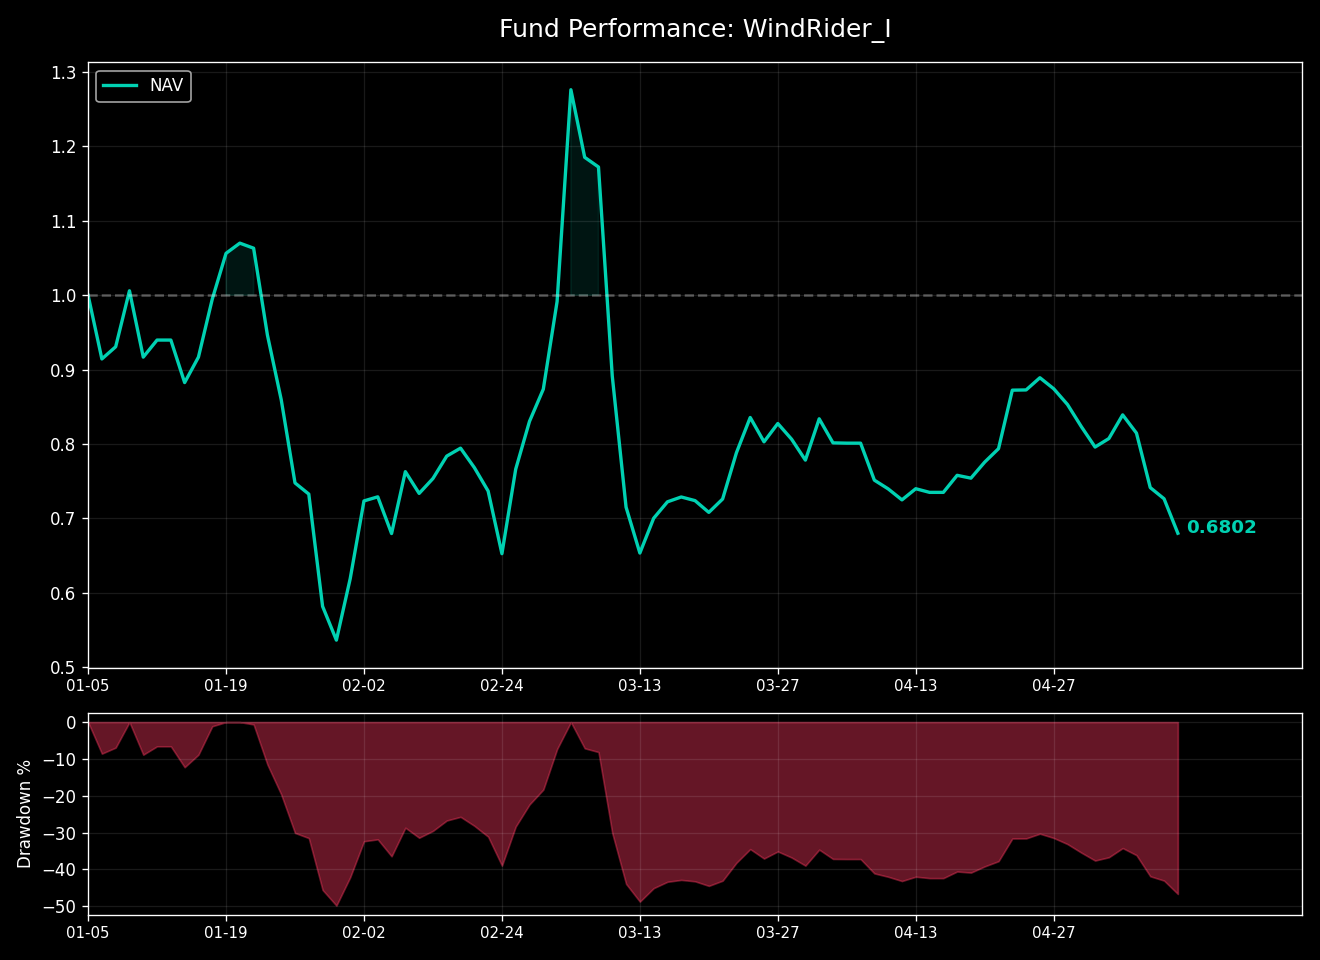
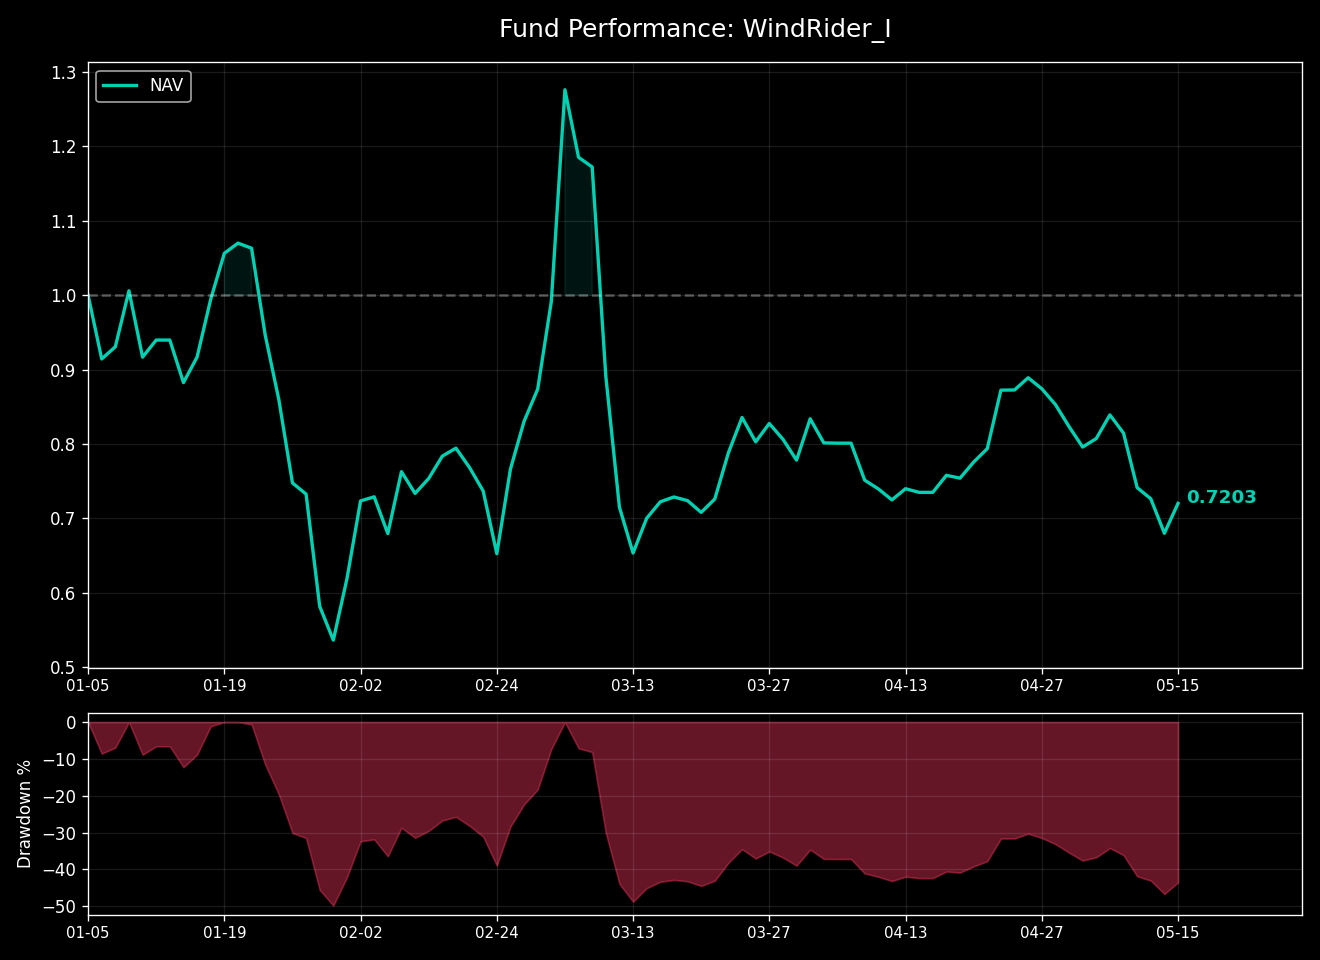
Updated Hugo site content

diff --git a/content/investment/windrider-1.md b/content/investment/windrider-1.md
@@ -1,8 +1,8 @@
 +++
 title = "风舵1号 (WindRider I)  /// 指数"
 summary = "商品期货分形摆动策略，实盘最新净值与核心风险指标。"
-date = 2026-05-14T15:15:03+08:00
-lastmod = 2026-05-14T15:15:03+08:00
+date = 2026-05-15T15:15:03+08:00
+lastmod = 2026-05-15T15:15:03+08:00
 draft = false
 description = "商品期货分形摆动策略实盘"
 +++
@@ -15,24 +15,24 @@ description = "商品期货分形摆动策略实盘"
 
 ### 风舵1号 (WindRider I) &nbsp;&nbsp;<span style="color: #E63946; font-weight: bold;">/</span><span style="color: #F1A73E; font-weight: bold;">/</span><span style="color: #000091; font-weight: bold;">/</span>&nbsp;&nbsp; 指数
 商品期货分形摆动策略实盘<br>
-净值简报 <small>(截至: 2026-05-14)</small>
+净值简报 <small>(截至: 2026-05-15)</small>
 
 |  |  |
 | :--- | :--- |
 | **指数代码：** | WDR1.CTA |
 | **起步日期：** | 2026-01-05 |
-| **最新净值：** | 0.6802 |
-| **今日涨跌：** | -6.37% |
+| **最新净值：** | 0.7203 |
+| **今日涨跌：** | +5.90% |
 
 ===========================
 
 | 核心指标 | |
 | :--- | :--- |
-| **累计涨跌：** | -31.98% |
-| **年化收益：** | -66.39% |
+| **累计涨跌：** | -27.97% |
+| **年化收益：** | -60.19% |
 | **最大回撤：** | -49.85% |
-| **卡玛比率：** | -1.33 |
-| **策略状态：** | 已运行 130 天 |
+| **卡玛比率：** | -1.21 |
+| **策略状态：** | 已运行 131 天 |
 
 ### 净值曲线
 ![风舵1号净值曲线](/images/investment/windrider_nav.png)